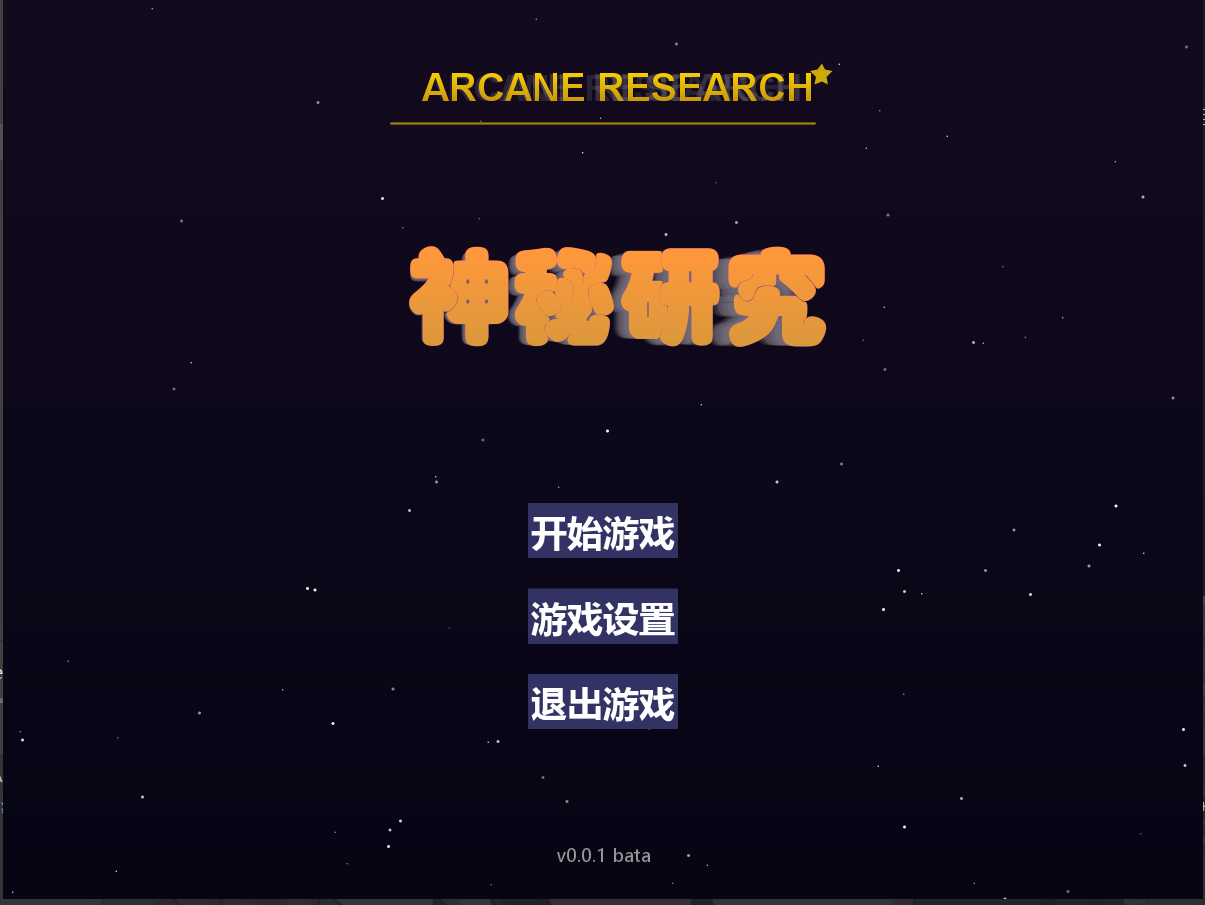
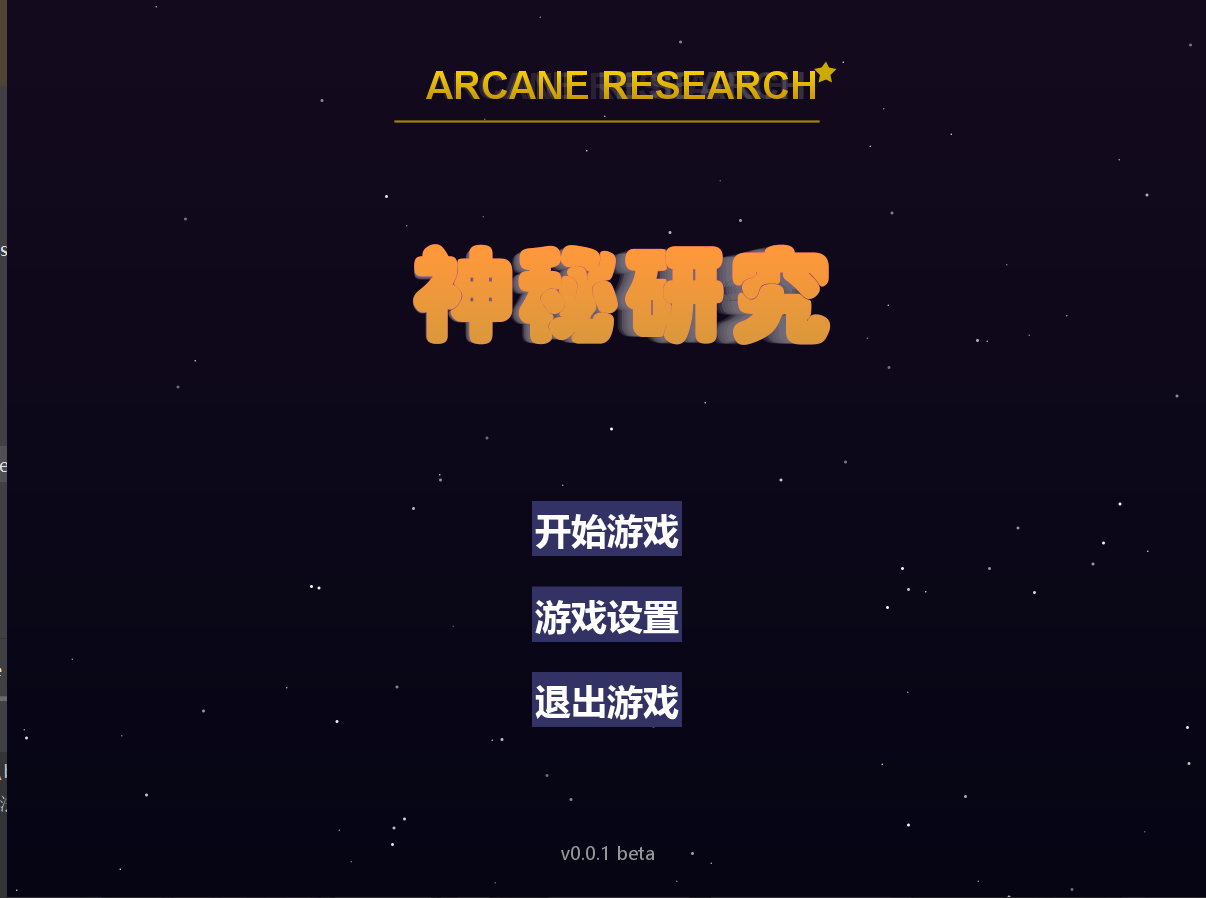
update

diff --git a/src/main/java/com/arcane/research/ui/StartUI.java b/src/main/java/com/arcane/research/ui/StartUI.java
@@ -283,7 +283,7 @@ public class StartUI extends BaseUI {
         mainPanel.add(Box.createVerticalGlue());
 
         // 添加版本信息
-        JLabel versionLabel = new JLabel("v0.0.1 bata");
+        JLabel versionLabel = new JLabel("v0.0.1 beta");
         versionLabel.setFont(new Font("微软雅黑", Font.PLAIN, 12));
         versionLabel.setForeground(new Color(150, 150, 150));
         versionLabel.setAlignmentX(Component.CENTER_ALIGNMENT);
